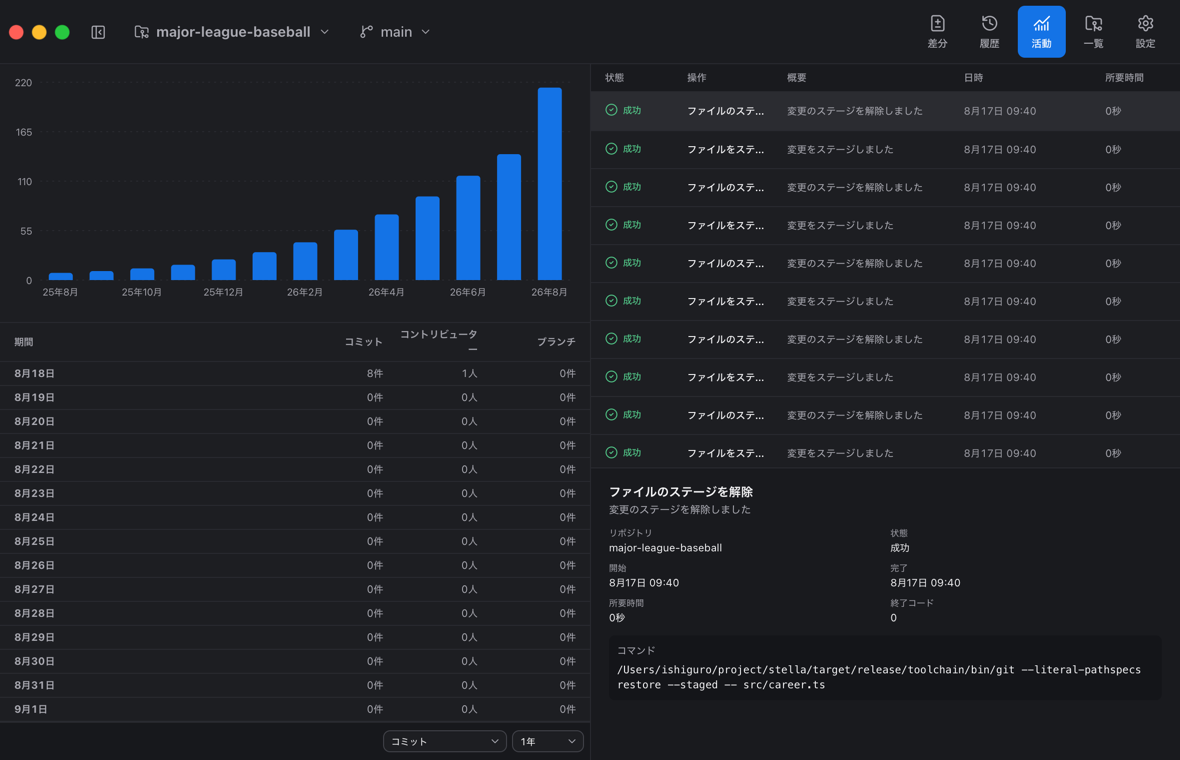
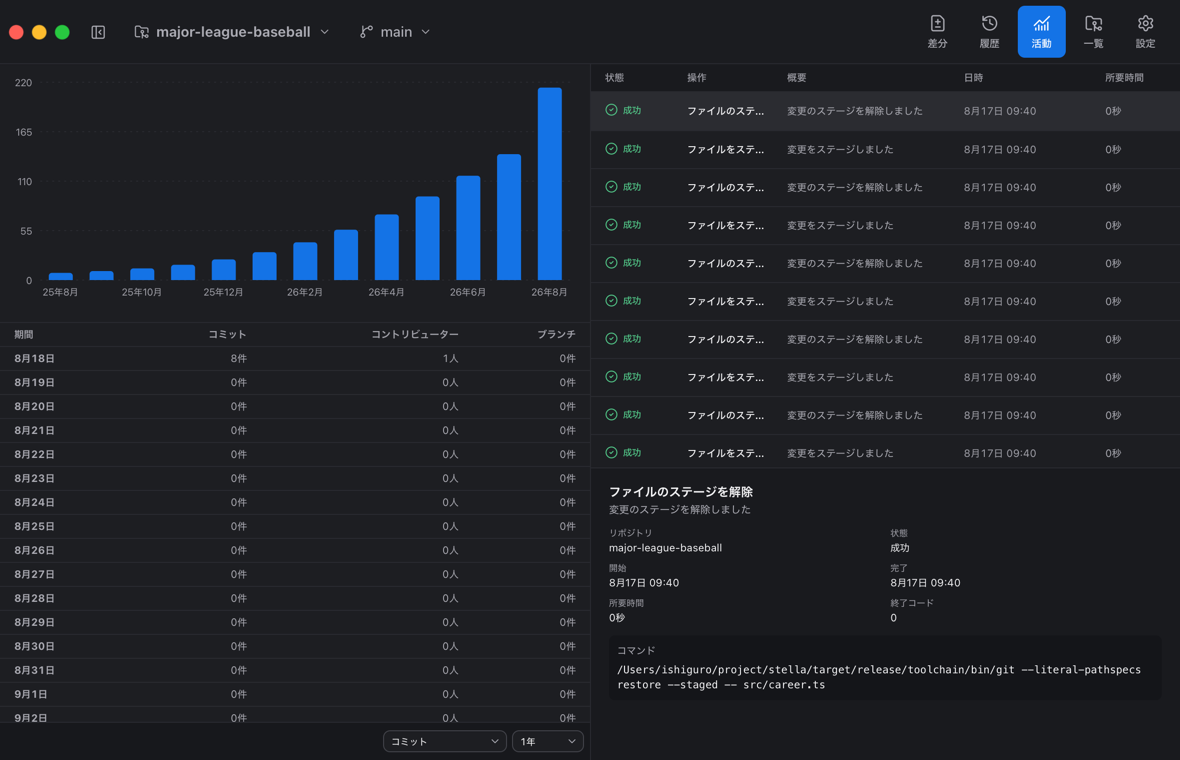
fix(activity): 表の見出しを折り返さない

diff --git a/app/test/e2e/activity.spec.ts b/app/test/e2e/activity.spec.ts
@@ -197,18 +197,24 @@ describe('Activity', () => {
     ]);
     const activityTableLayout = await browser.execute(() => {
       const container = document.querySelector<HTMLElement>('.activity-chart-data > div')!;
-      const headers = [...container.querySelectorAll<HTMLElement>('thead th')];
+      const analyticsHeaders = [...container.querySelectorAll<HTMLElement>('thead th')];
+      const operationHeaders = [
+        ...document.querySelectorAll<HTMLElement>('.activity-operation-table thead th'),
+      ];
+      const headers = [...analyticsHeaders, ...operationHeaders];
       return {
         horizontalOverflow: container.scrollWidth > container.clientWidth,
         clippedHeaders: headers
           .filter((header) => header.scrollWidth > header.clientWidth)
           .map((header) => header.textContent),
-        contributorWidth: Math.round(headers[2]?.getBoundingClientRect().width ?? 0),
+        wrappedHeaders: headers
+          .filter((header) => getComputedStyle(header).whiteSpace !== 'nowrap')
+          .map((header) => header.textContent),
       };
     });
     expect(activityTableLayout.horizontalOverflow).toBe(false);
     expect(activityTableLayout.clippedHeaders).toEqual([]);
-    expect(activityTableLayout.contributorWidth).toBeLessThanOrEqual(100);
+    expect(activityTableLayout.wrappedHeaders).toEqual([]);
     expect(
       await browser.execute(() => {
         const cells = document.querySelectorAll<HTMLElement>('.activity-chart-data thead th');

diff --git a/app/styles.test.ts b/app/styles.test.ts
@@ -20,6 +20,30 @@ describe('global scroll behavior', () => {
   });
 });
 
+describe('Activity tables', () => {
+  it('keeps analytics headers on one line while sizing columns from their content', () => {
+    expect(styles).toMatch(
+      /\.activity-chart-data th,\s*\.activity-chart-data td\s*\{[^}]*white-space:\s*nowrap;/u,
+    );
+    expect(styles).not.toMatch(/\.activity-chart-data table\s*\{[^}]*table-layout:\s*fixed;/u);
+    expect(styles).not.toMatch(
+      /\.activity-chart-data tr > :(?:first-child|nth-child\(2\)|nth-child\(3\)|last-child)\s*\{[^}]*width:/u,
+    );
+    expect(styles).not.toMatch(/\.activity-chart-data thead th\s*\{[^}]*white-space:\s*normal;/u);
+  });
+
+  it('keeps operation headers and values on one line in the fixed, scrollable table', () => {
+    expect(styles).toMatch(/\.activity-operation-table\s*\{[^}]*overflow:\s*auto;/u);
+    expect(styles).toMatch(
+      /\.activity-list\s*\{[^}]*min-width:\s*560px;[^}]*table-layout:\s*fixed;/u,
+    );
+    expect(styles).toMatch(/\.activity-list thead th\s*\{[^}]*white-space:\s*nowrap;/u);
+    expect(styles).toMatch(
+      /\.activity-list tbody th,\s*\.activity-list tbody td\s*\{[^}]*overflow:\s*hidden;[^}]*text-overflow:\s*ellipsis;[^}]*white-space:\s*nowrap;/u,
+    );
+  });
+});
+
 describe('Diff file selection', () => {
   it('uses neutral list selection with a one-pixel accent focus ring', () => {
     expect(styles).toMatch(

diff --git a/app/styles.css b/app/styles.css
@@ -3203,6 +3203,7 @@ button.toggle-button[data-reverse-icons][aria-pressed='true'] .toggle-button-thu
   font-size: 0.65625rem;
   font-weight: 600;
   text-align: left;
+  white-space: nowrap;
 }
 .activity-list tbody tr {
   cursor: default;
@@ -3439,7 +3440,6 @@ button.toggle-button[data-reverse-icons][aria-pressed='true'] .toggle-button-thu
   min-width: 0;
   border-collapse: collapse;
   font-variant-numeric: tabular-nums;
-  table-layout: fixed;
 }
 .activity-chart-data th,
 .activity-chart-data td {
@@ -3449,15 +3449,7 @@ button.toggle-button[data-reverse-icons][aria-pressed='true'] .toggle-button-thu
   white-space: nowrap;
 }
 .activity-chart-data tr > :first-child {
-  width: 48%;
   padding-left: 14px;
-}
-.activity-chart-data tr > :nth-child(2),
-.activity-chart-data tr > :last-child {
-  width: 18%;
-}
-.activity-chart-data tr > :nth-child(3) {
-  width: 16%;
 }
 .activity-chart-data tr > :last-child {
   padding-right: 14px;
@@ -3468,7 +3460,6 @@ button.toggle-button[data-reverse-icons][aria-pressed='true'] .toggle-button-thu
   top: 0;
   background: var(--surface-raised);
   color: var(--text-tertiary);
-  white-space: normal;
 }
 .activity-chart-data tbody {
   color: var(--text-secondary);

diff --git a/DESIGN.md b/DESIGN.md
@@ -44,6 +44,8 @@
 - 画面上部はペインで分割せず、リポジトリ情報と画面移動を全幅の共通ヘッダーへまとめます。
 - 変更と履歴は左側で対象を選び、右側を差分や詳細へ広く割り当てます。
 - 活動は分析と操作履歴、設定はカテゴリと詳細を左右に分け、それぞれの内容をペイン内でスクロールします。
+- 活動の分析表は内容に応じて列幅を決め、見出しを折り返しません。
+- 活動の操作一覧は固定の列比率、本文の省略、表内スクロールを使い、見出しを折り返しません。
 - ウィンドウ全体をスクロールさせず、見出しと主要操作を残したまま内容領域だけをスクロールします。
 - 最小サイズでも主要操作を隠さず、横スクロールを発生させません。
 
